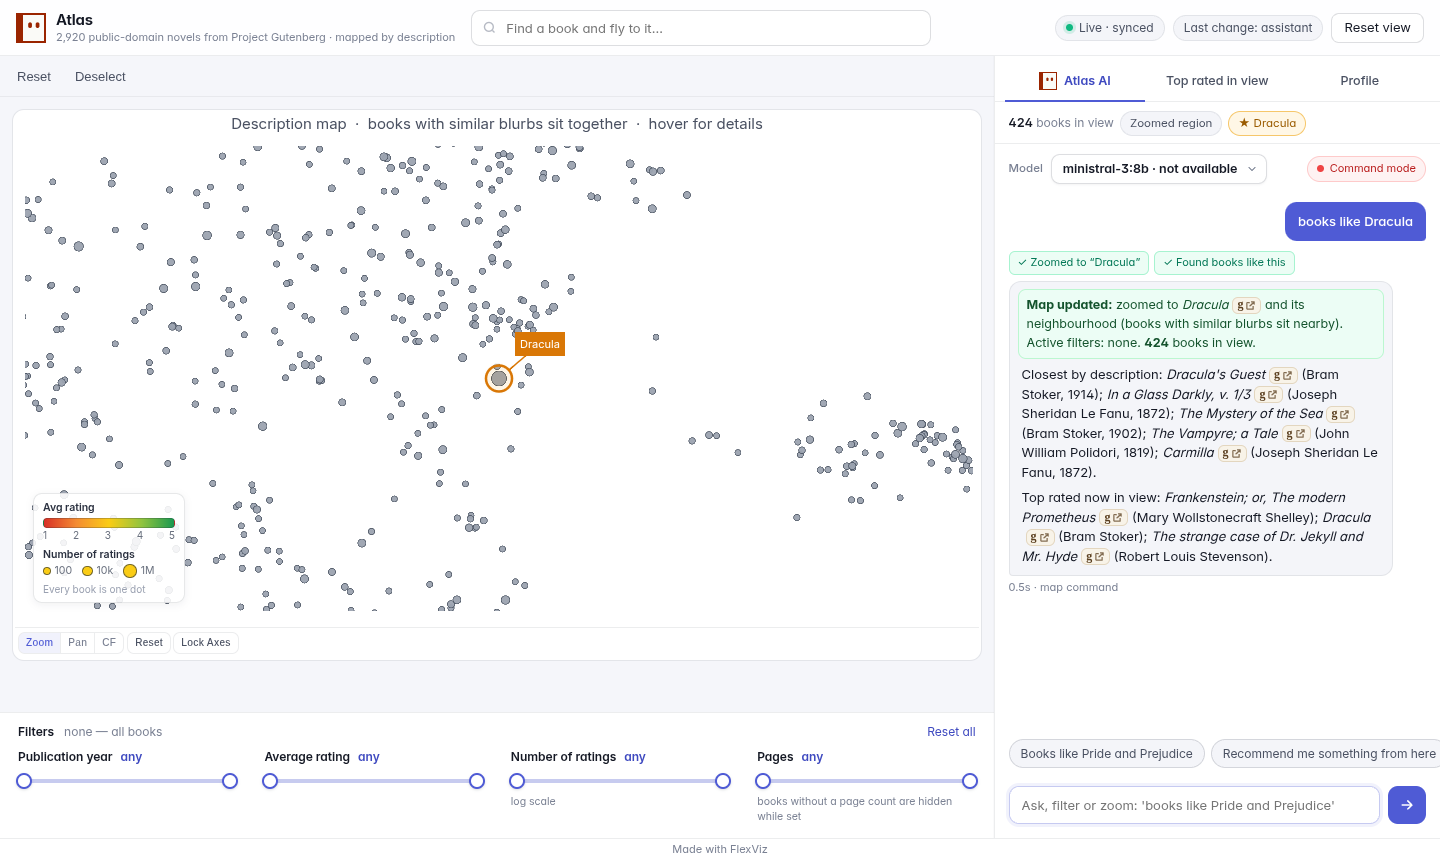
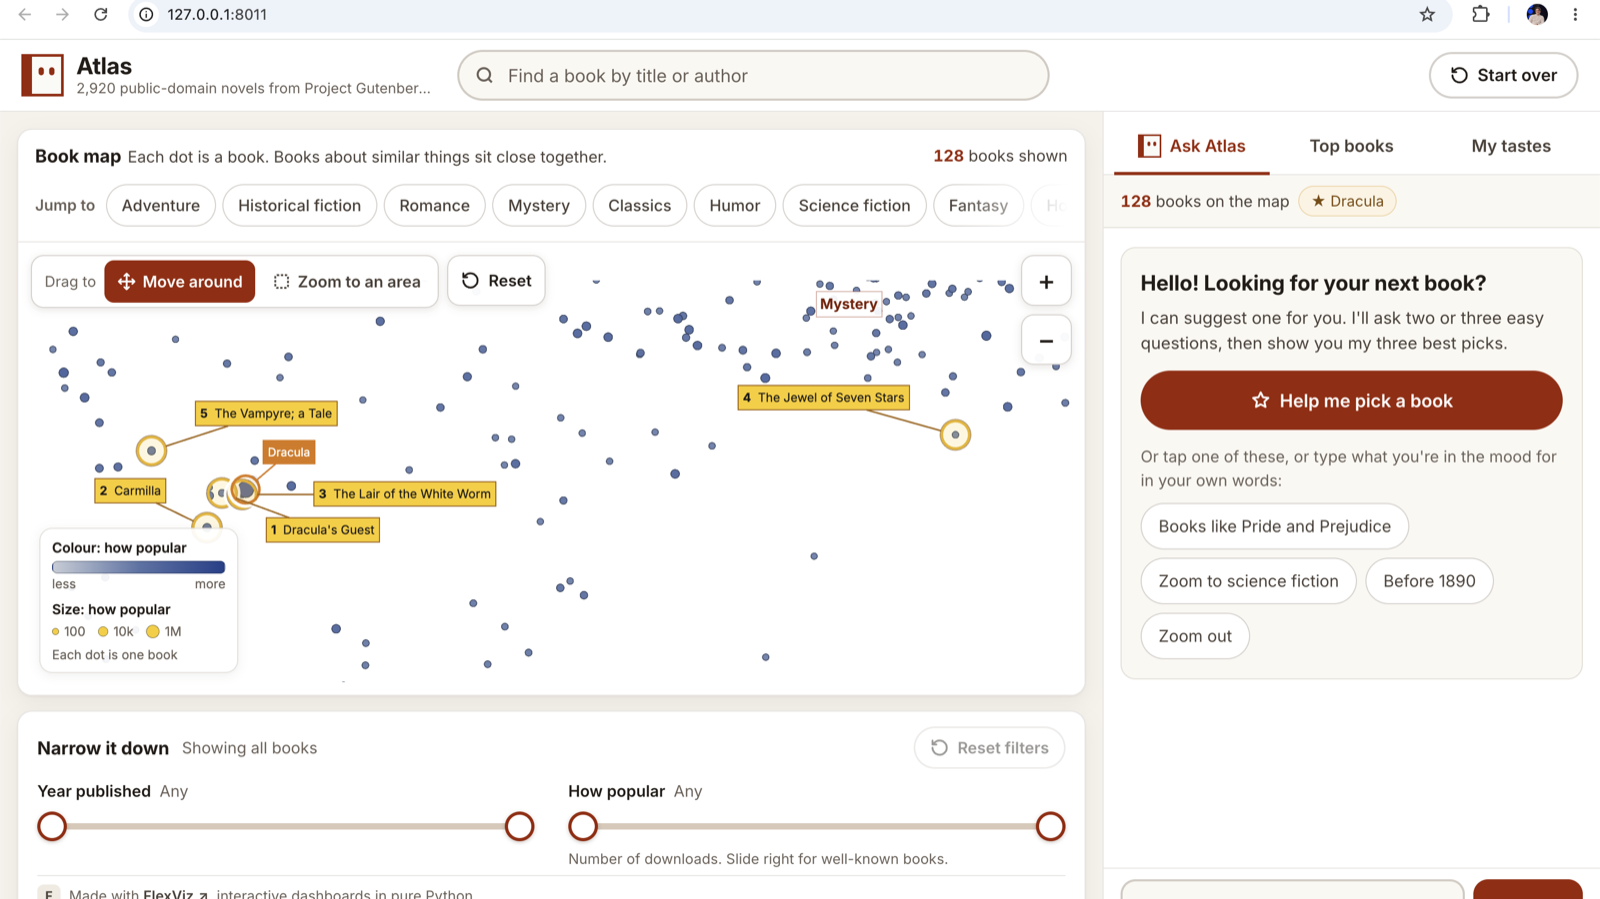
README: fresh screenshots from the current UI (desktop + phone)
Re-captured from a running `atlas demo` after asking "books like
Dracula": the map zoomed to Dracula's neighbourhood with the recommended
picks ringed and ranked, topic chips, the new control layout (Reset in
the top-left tool row, square zoom buttons), and the popularity
colour fallback on the rating-less sample. Added a phone screenshot
showing the map-first mobile view with the bottom tab bar.

Generated by Mistral Vibe.

diff --git a/README.md b/README.md
@@ -12,7 +12,11 @@ click a dot to open the book's page, or just ask *Atlas AI*: "books like Dracula
 fiction", "recommend me something from here". You and Atlas AI drive **one shared view**, so whatever it does
 happens on your screen, and it can see what you're looking at.
 
-![Atlas: the bundled Project Gutenberg sample, after asking "books like Dracula"](docs/screenshot.png)
+![Atlas: the bundled Project Gutenberg sample, after asking "books like Dracula" — recommended picks are ringed and ranked on the map](docs/screenshot.png)
+
+On a phone, Atlas opens straight on the map; the bottom tab bar switches to *Ask Atlas*:
+
+![Atlas on a phone: map first, tab bar at the bottom](docs/screenshot-mobile.png)
 
 ## Contents
 

diff --git a/docs/README.md b/docs/README.md
@@ -4,4 +4,4 @@
 - [AGENT_GUIDE.md](AGENT_GUIDE.md) — the instructions Atlas AI operates from (tool playbook, answer rules) and the fine-tuning eval that motivated them
 - [ROADMAP.md](ROADMAP.md) — the top 5 improvements, prioritised with effort/impact
 - [adr/](adr/) — architecture decision records (why one shared view, rules-first + LLM, local embeddings, no Goodreads data)
-- [screenshot.png](screenshot.png) — the README hero image; also set as the repo's GitHub social preview
+- [screenshot.png](screenshot.png) / [screenshot-mobile.png](screenshot-mobile.png) — the README hero images (desktop + phone); screenshot.png is also the repo's GitHub social preview
